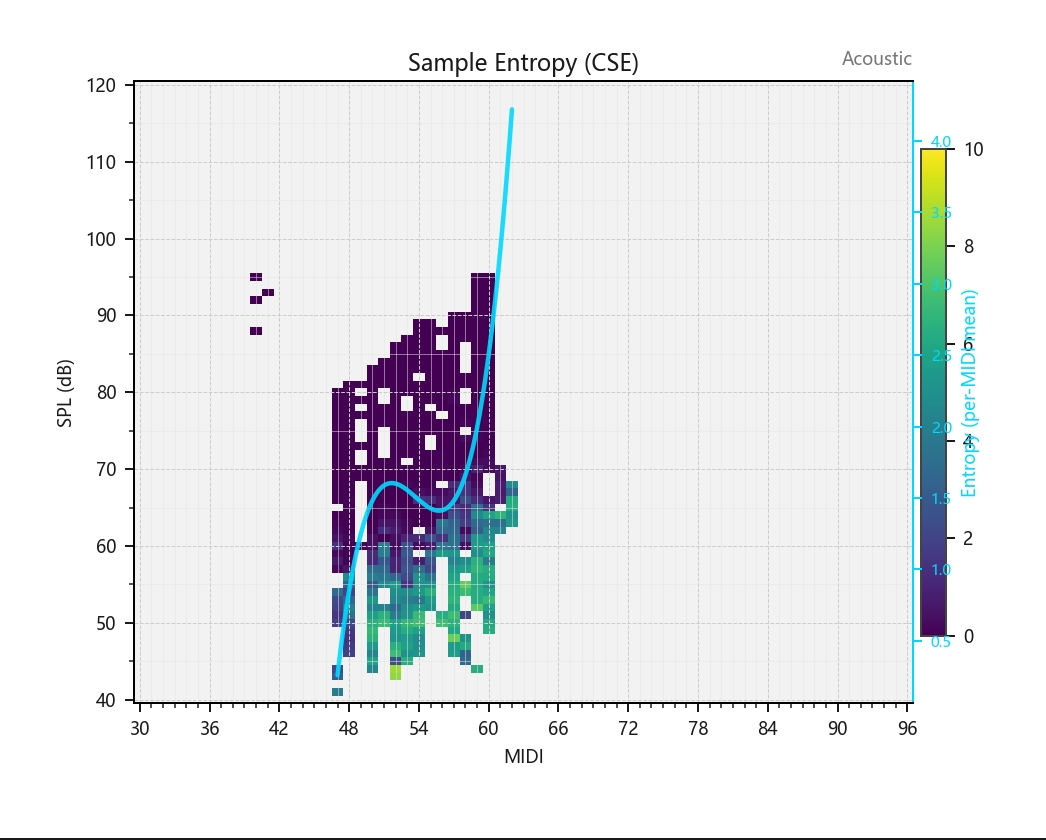
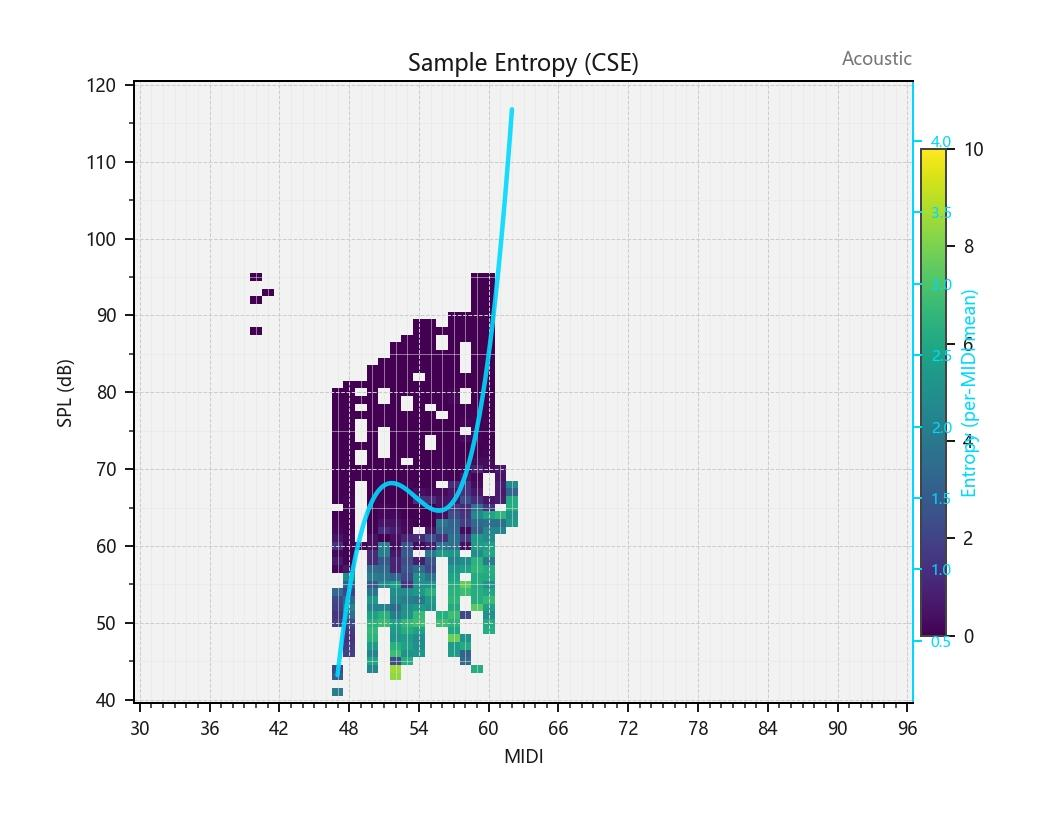
docs(软著): 第二轮 review 反馈终态化
PDF 生成器修复:
- codespan 字体智能选择：纯 ASCII 走 Consolas（等宽），含中文
  时切回 YaHei + 暖色，模拟"代码"外观但不丢字。原因是 Consolas
  不含 CJK 字形，导致 \`用户手册.md\` 这种里面的中文渲染成空白
  宽度，看上去像".md"漂在长空格后面。

文档结构修复:
- 用户手册 / 设计说明书 头部 5 行元数据（软件名 / 版本 / 作者
  / 邮箱 / 版权）从单段落改成 markdown 表格 —— 之前 softbreak
  策略变更后 5 行挤成一坨
- 用户手册 § 4 删 ASCII 界面框图（已有真截图 1初始打开软件.png
  在前，框图是冗余 + ASCII 边框字符 / ✓ / ⓘ 等不能渲染）

符号字符替换（YaHei 不含的 Dingbat）:
- ⓘ 提示图标 → "信息图标 (i)"
- ✓ → "√"（U+221A 根号，YaHei 含）或 "良好"
- ✗ → "×"（U+00D7 乘号，YaHei 含）或 "失败"
- ⏵ → "▶"（U+25B6，YaHei 含）

截图清理:
- _trim_borders.py: 自动检测并裁掉截图四周的纯深色边框，
  避免 PDF 嵌图后右侧 / 底部出现黑条
- 4鼠标悬浮 / 5标注功能 / 6拟合曲线 三张 JPEG 被自动 trim

diff --git a/软著材料/_trim_borders.py b/软著材料/_trim_borders.py
@@ -1,0 +1,59 @@
+# -*- coding: utf-8 -*-
+"""自动剪掉截图四周的深色 / 单色窗口边框，让图嵌入 PDF 后干净。
+
+判定: 从外向内逐行扫描，遇到"标准差很小且亮度低"的整行 / 整列
+就当作边框剥掉。背景大多是白底 (255) 或深灰 (0-30)，正常内容
+方差大，因此 std < 20 + mean < 80 是"纯深色边框"信号。
+"""
+
+from pathlib import Path
+import numpy as np
+from PIL import Image
+
+ROOT = Path(__file__).resolve().parent.parent
+SHOTS = ROOT / "docs" / "screenshots"
+
+
+def _is_border_row(row, dark_threshold: int = 80,
+                   std_threshold: int = 20) -> bool:
+    mean = row.mean()
+    std = row.std()
+    # 纯深色 = 既暗又一致
+    return mean < dark_threshold and std < std_threshold
+
+
+def trim(im: Image.Image) -> Image.Image:
+    arr = np.array(im.convert("RGB"))
+    h, w = arr.shape[:2]
+    # 从四个方向向内推进
+    top = 0
+    while top < h and _is_border_row(arr[top]):
+        top += 1
+    bot = h
+    while bot > top and _is_border_row(arr[bot - 1]):
+        bot -= 1
+    left = 0
+    while left < w and _is_border_row(arr[top:bot, left]):
+        left += 1
+    right = w
+    while right > left and _is_border_row(arr[top:bot, right - 1]):
+        right -= 1
+    return im.crop((left, top, right, bot))
+
+
+def main() -> None:
+    for p in sorted(SHOTS.glob("*")):
+        if p.suffix.lower() not in (".png", ".jpeg", ".jpg"):
+            continue
+        with Image.open(p) as im:
+            w0, h0 = im.size
+            cropped = trim(im)
+        if cropped.size != (w0, h0):
+            cropped.save(p)
+            print(f"  trimmed {p.name}: {w0}×{h0} → {cropped.size[0]}×{cropped.size[1]}")
+        else:
+            print(f"  {p.name}: no border")
+
+
+if __name__ == "__main__":
+    main()

diff --git a/软著材料/_txt_to_pdf.py b/软著材料/_txt_to_pdf.py
@@ -115,9 +115,16 @@ class _PDFRenderer:
             elif t == "emphasis":
                 out.append(f"<i>{self._inline(c.get('children'))}</i>")
             elif t == "codespan":
+                # Consolas 不含 CJK 字形：纯 ASCII 才用等宽，含中文则
+                # 回到正文字体 + 暖色 + 9pt 模拟"代码"质感；否则
+                # `用户手册.md` 这种里面的"用户手册"会渲染成空白宽度，
+                # 导致看上去 ".md" 漂在长空格后面。
+                raw = c.get("raw", "")
+                font_name = (_FONT_MONO if all(ord(ch) < 128 for ch in raw)
+                             else _FONT_REG)
                 out.append(
-                    f'<font face="{_FONT_MONO}" size="9" color="#5b3a00">'
-                    f'{self._escape(c.get("raw", ""))}</font>')
+                    f'<font face="{font_name}" size="9" color="#5b3a00">'
+                    f'{self._escape(raw)}</font>')
             elif t == "linebreak":
                 out.append("<br/>")
             elif t == "softbreak":

diff --git a/docs/用户手册.md b/docs/用户手册.md
@@ -1,10 +1,12 @@
 # 嗓音声学品质多维分析图谱 · 用户手册
 
-**软件名**：嗓音声学品质多维分析图谱（VoiceMap）
-**版本**：V1.0.0
-**作者**：蔡寰宸 (Huanchen Cai)
-**邮箱**：[email redacted]
-**版权**：Copyright © 2026 蔡寰宸 · MIT 许可
+| 字段 | 内容 |
+|---|---|
+| **软件名** | 嗓音声学品质多维分析图谱（VoiceMap） |
+| **版本** | V1.0.0 |
+| **作者** | 蔡寰宸 (Huanchen Cai) |
+| **邮箱** | [email redacted] |
+| **版权** | Copyright © 2026 蔡寰宸 · MIT 许可 |
 
 ---
 
@@ -64,36 +66,8 @@ python main.py --help             # 查看所有选项
 
 ![初始启动后的界面](screenshots/1初始打开软件.png)
 
-启动后界面分为四个区域：
-
-```
-┌────────────────────────────────────────────────────────────┐
-│ 文件  编辑  参数  视图  帮助                                  │  ← 菜单栏
-├────────────────────────────────────────────────────────────┤
-│ 录音轨               ● 就绪    [开始分析]                    │  ← 录音轨
-│ ▌01 ✓ test_Voice_EGG.wav  44.1k Hz · 8.2s · 12,525 网格  ▓▓▓│
-├────────────────────────────────────────────────────────────┤
-│ 参数 [CPP]  │ 上一个 ←  下一个 →                            │  ← 参数轨
-├──────────────────────────────────────┬─────────────────────┤
-│                                      │ CPP            ⓘ     │
-│  ◀  画布（VRP 热图）              ▶  │ 倒谱峰显著度          │
-│                                      │ 单位: dB             │
-│                                      │                      │
-│                                      │ 参考范围              │
-│                                      │ ≥14 健康 ✓           │
-│                                      │ 8-14 中等             │
-│                                      │ <8 低                │
-│                                      │                      │
-│                                      │ ┌────────────────┐  │
-│                                      │ │ 本次值          │  │
-│                                      │ │ MIDI 60·SPL 80  │  │
-│                                      │ │ 18.50  dB ✓good│  │
-│                                      │ └────────────────┘  │
-├──────────────────────────────────────┴─────────────────────┤
-│ ● test_Voice_EGG.wav · 12,525 网格 · k=5 · 3,420 个周期     │  ← 状态栏
-│ · 耗时 12.6 秒                          © 2026 蔡寰宸 v1.0  │
-└────────────────────────────────────────────────────────────┘
-```
+启动后界面从上到下分为四个区域：菜单栏、录音轨、参数轨、画布
+（含右侧详情栏）和状态栏。
 
 ### 4.1 菜单栏
 
@@ -112,8 +86,8 @@ python main.py --help             # 查看所有选项
 - 加载完文件需点 "开始分析" 按钮才开始分析（不自动触发）
 - 多 wav 同时拖入：全部进入列表，按钮分析当前选中的那条
 - 点击任意行切换为当前文件（已分析的从内存恢复，未分析的就地分析）
-- 行内显示：编号、状态符号（○ 待分析 / ⏵ 分析中 / ✓ 已分析 / ✗ 失败）、
-  文件名、采样率、时长、通道数、网格数、迷你波形预览
+- 行内显示：编号、状态符号（○ 待分析 / ▶ 分析中 / √ 已分析 /
+  × 失败）、文件名、采样率、时长、通道数、网格数、迷你波形预览
 
 ### 4.3 参数轨
 
@@ -125,8 +99,8 @@ python main.py --help             # 查看所有选项
 
 ### 4.4 右侧详情栏
 
-- **顶部**：当前参数名（大字）+ ⓘ 提示图标 + 描述 + 单位
-  - 鼠标悬浮标题或 ⓘ 图标，弹出详细公式 / 临床意义
+- **顶部**：当前参数名（大字）+ 信息图标 (i) + 描述 + 单位
+  - 鼠标悬浮标题或 (i) 图标，弹出详细公式 / 临床意义
 - **中部（可滚动）**：参考范围 —— 4 档严重度色（绿 / 灰 / 橙 / 红），
   按参数自动加载对应文献阈值
 - **底部（固定）**：本次值卡 —— 鼠标移到画布任意格，实时显示
@@ -235,8 +209,8 @@ python main.py --help             # 查看所有选项
 ## 7. 关键参数参考范围
 
 下表列出所有带临床 / 学术参考范围的参数，分级与右侧详情栏的临床
-参考范围卡完全一致。"严重度色" 列：✓ = 良好 · 灰 = 正常 ·
-橙 = 注意 · 红 = 异常。
+参考范围卡完全一致。"严重度色" 列：绿 = 良好、灰 = 正常、
+橙 = 注意、红 = 异常。
 
 ### 声学 · 扰动类
 

diff --git a/docs/设计说明书.md b/docs/设计说明书.md
@@ -1,10 +1,12 @@
 # 嗓音声学品质多维分析图谱 · 设计说明书
 
-**软件名**：嗓音声学品质多维分析图谱（VoiceMap）
-**版本**：V1.0.0
-**作者**：蔡寰宸 (Huanchen Cai)
-**邮箱**：[email redacted]
-**版权**：Copyright © 2026 蔡寰宸 · MIT 许可
+| 字段 | 内容 |
+|---|---|
+| **软件名** | 嗓音声学品质多维分析图谱（VoiceMap） |
+| **版本** | V1.0.0 |
+| **作者** | 蔡寰宸 (Huanchen Cai) |
+| **邮箱** | [email redacted] |
+| **版权** | Copyright © 2026 蔡寰宸 · MIT 许可 |
 
 ---
 